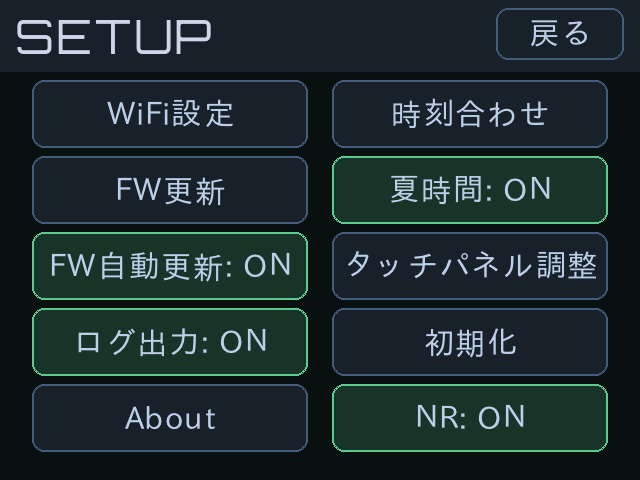
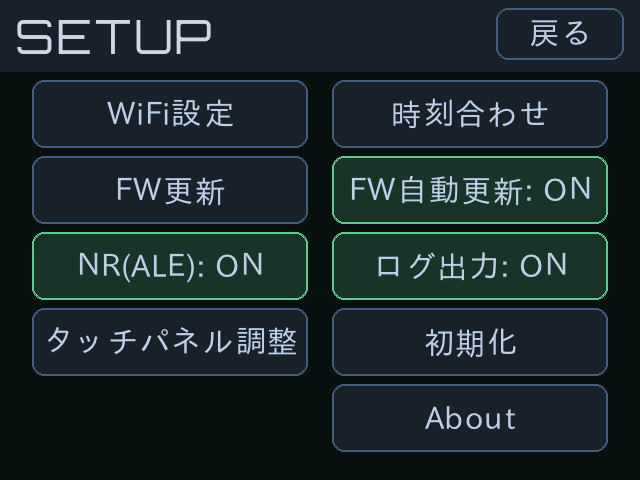
Move summer time and add NTP sync to the time-setting page
SETUP drops the summer-time item, moves About to the bottom right and
groups the rest by topic; NR now reads "NR(ALE)". The time-setting page
gets a summer-time toggle (shifts the values being edited by the change
in offset) and an NTP sync button, greyed out without WiFi; a successful
sync returns to SETUP so pressing OK cannot zero the seconds.
netsync_sync_now() takes a flag to skip repainting the clock screen.

The WiFi screen's QR caption no longer overflows ("QRで接続").
Manual and screenshots updated.

diff --git a/src/timeset.cpp b/src/timeset.cpp
@@ -5,14 +5,19 @@
 //	  ▲     ▲    ▲    ▲    ▲
 //	 2026    08    16    10    55
 //	  ▼     ▼    ▼    ▼    ▼
-//	      [キャンセル]      [決定]
+//	  [夏時間: ON]     [NTP同期]
+//	  [キャンセル]     [決定]
 //
 //	秒は「決定」を押した瞬間に 0 にする。
 //	▲▼ は長押しでリピートする。
+//	夏時間はその場で切り替えて保存し、表示中の値も新しい時差に合わせて動かす。
+//	NTP同期は WiFi を登録したときだけ押せる。成功したら秒まで合っているので
+//	そのまま SETUP へ戻る (「決定」で秒を 0 にしてしまわないように)。
 //
 #include <Arduino.h>
 #include "timeset.h"
 #include "clock.h"
+#include "netsync.h"
 
 #define C_BG      lgfx::color565(14, 17, 22)
 #define C_TITLEBG lgfx::color565(26, 34, 46)
@@ -26,15 +31,23 @@
 #define C_BTN_TX  lgfx::color565(190, 206, 226)
 #define C_OK_BG   lgfx::color565(24, 54, 42)
 #define C_OK_BD   lgfx::color565(90, 200, 140)
+#define C_OFF_BD  lgfx::color565(44, 54, 68)
+#define C_OFF_TX  lgfx::color565(84, 96, 112)
 
-#define LABEL_Y 34
+#define LABEL_Y 35
 #define UP_Y    52
-#define ARROW_H 34
-#define VAL_Y   90
-#define VAL_H   38
-#define DN_Y    130
-#define BTN_Y   186
-#define BTN_H   40
+#define ARROW_H 28
+#define VAL_Y   82
+#define VAL_H   36
+#define DN_Y    120
+#define OPT_Y   156
+#define BTN_Y   198
+#define BTN_H   36
+
+// 下 2 段のボタン (夏時間 / NTP同期、キャンセル / 決定) の列
+#define BTN_L_X 30
+#define BTN_R_X 180
+#define BTN_W   110
 
 #define FIELD_N 5
 
@@ -135,6 +148,20 @@ static void bump(int idx, int dir)
 	}
 }
 
+static void draw_summer(void)
+{
+	const bool on = clock_summer_time() != 0;
+	draw_button(BTN_L_X, OPT_Y, BTN_W, BTN_H, on ? "夏時間: ON" : "夏時間: OFF",
+	            on ? C_OK_BG : C_BTN_BG, on ? C_OK_BD : C_BTN_BD, C_BTN_TX);
+}
+
+static void draw_ntp(void)
+{
+	const bool ok = netsync_has_wifi();
+	draw_button(BTN_R_X, OPT_Y, BTN_W, BTN_H, "NTP同期",
+	            C_BTN_BG, ok ? C_BTN_BD : C_OFF_BD, ok ? C_BTN_TX : C_OFF_TX);
+}
+
 static void draw_screen(void)
 {
 	lcd->fillScreen(C_BG);
@@ -163,8 +190,27 @@ static void draw_screen(void)
 		draw_value(i);
 		draw_arrow(i, false);
 	}
-	draw_button(30, BTN_Y, 110, BTN_H, "キャンセル", C_BTN_BG, C_BTN_BD, C_BTN_TX);
-	draw_button(180, BTN_Y, 110, BTN_H, "決定", C_OK_BG, C_OK_BD, C_BTN_TX);
+	draw_summer();
+	draw_ntp();
+	draw_button(BTN_L_X, BTN_Y, BTN_W, BTN_H, "キャンセル", C_BTN_BG, C_BTN_BD, C_BTN_TX);
+	draw_button(BTN_R_X, BTN_Y, BTN_W, BTN_H, "決定", C_OK_BG, C_OK_BD, C_BTN_TX);
+}
+
+//	夏時間の切替。入力途中の値は捨てず、切替前後のローカル時刻の差だけ動かす
+static void toggle_summer(void)
+{
+	const uint32_t before = clock_zone_now(clock_zone());
+	clock_set_summer_time(!clock_summer_time());
+	const int32_t diff = (int32_t)(clock_zone_now(clock_zone()) - before);
+	if (diff) {
+		uint8_t sec = tm.sec;
+		clock_break(clock_make(&tm) + diff, &tm);
+		tm.sec = sec;
+		for (int i = 0; i < FIELD_N; i++) {
+			draw_value(i);
+		}
+	}
+	draw_summer();
 }
 
 bool timeset_run(LGFX *lcd_)
@@ -190,15 +236,35 @@ bool timeset_run(LGFX *lcd_)
 		}
 
 		// 決定 / キャンセル
-		if (hit(tx, ty, 180, BTN_Y, 110, BTN_H)) {
+		if (hit(tx, ty, BTN_R_X, BTN_Y, BTN_W, BTN_H)) {
 			while (lcd->getTouch(&tx, &ty)) delay(10);
 			tm.sec = 0;
 			clock_set_zone_time(clock_zone(), clock_make(&tm));
 			return true;
 		}
-		if (hit(tx, ty, 30, BTN_Y, 110, BTN_H)) {
+		if (hit(tx, ty, BTN_L_X, BTN_Y, BTN_W, BTN_H)) {
 			while (lcd->getTouch(&tx, &ty)) delay(10);
 			return false;
+		}
+
+		// 夏時間 / NTP同期 (WiFi 未登録なら NTP同期は押しても何もしない)
+		if (hit(tx, ty, BTN_L_X, OPT_Y, BTN_W, BTN_H)) {
+			while (lcd->getTouch(&tx, &ty)) delay(10);
+			toggle_summer();
+			held = -1;
+			continue;
+		}
+		if (hit(tx, ty, BTN_R_X, OPT_Y, BTN_W, BTN_H)) {
+			while (lcd->getTouch(&tx, &ty)) delay(10);
+			held = -1;
+			if (!netsync_has_wifi()) {
+				continue;
+			}
+			if (netsync_sync_now(false)) {
+				return true;
+			}
+			draw_screen();          // 失敗: トーストを消して入力途中の値のまま続ける
+			continue;
 		}
 
 		// ▲▼ (押し始めで1回、長押しでリピート)

diff --git a/src/setup.cpp b/src/setup.cpp
@@ -1,16 +1,17 @@
 //
 //	セットアップ画面
 //
-//	2列 x 5行のグリッド (10項目)。
+//	2列 x 5行のグリッド (9項目、左下は空き)。
 //
 //	┌ SETUP                                [戻る] ┐
 //	│ [ WiFi設定 ]         [ 時刻合わせ ]         │
-//	│ [ FW更新 ]           [ 夏時間: ON ]         │
-//	│ [ FW自動更新: ON ]   [ タッチパネル調整 ]   │
-//	│ [ ログ出力: ON ]     [ 初期化 ]             │
-//	│ [ About ]            [ NR: ON ]             │
+//	│ [ FW更新 ]           [ FW自動更新: ON ]     │
+//	│ [ NR(ALE): ON ]      [ ログ出力: ON ]       │
+//	│ [ タッチパネル調整 ] [ 初期化 ]             │
+//	│                      [ About ]              │
 //	└─────────────────────────────────────────────┘
 //
+//	時刻合わせ → timeset (夏時間の ON/OFF と NTP 同期もここ)
 //	FW更新 → ota (SoftAP+ブラウザで手動アップロード)
 //	タッチパネル調整 → touchcal / About → about_run
 //	NR → トーン検出方式の切替 (ON = ALE によるノイズ低減、dsp.h の DSP_DET_ALE_AMP)
@@ -52,7 +53,7 @@
 #define BACK_W 64
 #define BACK_H 26
 
-// 2列 x 5行のグリッド (10項目)
+// 2列 x 5行のグリッド (10枠。ラベルが NULL の枠は空き)
 #define ITEM_COL_W 138
 #define ITEM_COL_GAP 12
 #define ITEM_H 34
@@ -206,24 +207,26 @@ static void draw_screen(void)
 	draw_button(BACK_X, BACK_Y, BACK_W, BACK_H, "戻る", C_BTN_BG, C_BTN_BD, C_BTN_TX,
 	            &fonts::lgfxJapanGothicP_16);
 
-	char summer[40], scope[40], upd[40], nr[24];
-	snprintf(summer, sizeof(summer), "夏時間: %s", clock_summer_time() ? "ON" : "OFF");
+	char scope[40], upd[40], nr[24];
 	snprintf(scope, sizeof(scope), "ログ出力: %s", scopelog_enabled() ? "ON" : "OFF");
 	snprintf(upd, sizeof(upd), "FW自動更新: %s", fwupdate_check_enabled() ? "ON" : "OFF");
-	snprintf(nr, sizeof(nr), "NR: %s", nr_enabled() ? "ON" : "OFF");
+	snprintf(nr, sizeof(nr), "NR(ALE): %s", nr_enabled() ? "ON" : "OFF");
 	const struct { const char *label; bool on; } items[ITEM_N] = {
 		{ "WiFi設定", false },
 		{ "時刻合わせ", false },
 		{ "FW更新", false },
-		{ summer, clock_summer_time() != 0 },
 		{ upd, fwupdate_check_enabled() },
-		{ "タッチパネル調整", false },
-		{ scope, scopelog_enabled() != 0 },
-		{ "初期化", false },
-		{ "About", false },
 		{ nr, nr_enabled() },
+		{ scope, scopelog_enabled() != 0 },
+		{ "タッチパネル調整", false },
+		{ "初期化", false },
+		{ NULL, false },
+		{ "About", false },
 	};
 	for (int i = 0; i < ITEM_N; i++) {
+		if (!items[i].label) {
+			continue;
+		}
 		int x, y;
 		item_pos(i, &x, &y);
 		draw_button(x, y, ITEM_COL_W, ITEM_H, items[i].label,
@@ -296,17 +299,17 @@ void setup_run(LGFX *lcd_)
 				ap_mode_leave();
 			}
 			break;
-		case 3:
-			clock_set_summer_time(!clock_summer_time());
-			break;
-		case 4:                     // 起動時アップデートチェック ON/OFF
+		case 3:                     // 起動時アップデートチェック ON/OFF
 			fwupdate_set_check_enabled(!fwupdate_check_enabled());
 			break;
+		case 4:                     // NR (ノイズ低減) ON/OFF
+			nr_set(!nr_enabled());
+			break;
 		case 5:
-			touchcal_run(lcd);      // タッチの四隅校正 (DSP は動いたまま)
+			scopelog_set_enabled(!scopelog_enabled());
 			break;
 		case 6:
-			scopelog_set_enabled(!scopelog_enabled());
+			touchcal_run(lcd);      // タッチの四隅校正 (DSP は動いたまま)
 			break;
 		case 7:
 			if (display_confirm(lcd, "設定を初期化します",
@@ -315,12 +318,11 @@ void setup_run(LGFX *lcd_)
 				netsync_clear_wifi();
 			}
 			break;
-		case 8:
+		case 9:
 			about_run();
 			break;
-		default:                    // NR (ノイズ低減) ON/OFF
-			nr_set(!nr_enabled());
-			break;
+		default:                    // 8 は空き
+			continue;
 		}
 		draw_screen();
 	}

diff --git a/src/ota.cpp b/src/ota.cpp
@@ -215,10 +215,10 @@ static void draw_screen(void)
 	// 右: WiFi接続用QR (スマホのカメラで読むとAPに参加できる)
 	String wifi_qr = String("WIFI:T:WPA;S:") + OTA_AP_SSID + ";P:" + OTA_AP_PASS + ";;";
 	lcd->qrcode(wifi_qr.c_str(), 206, 34, 106, 3);
-	lcd->setFont(&fonts::DejaVu12);
+	lcd->setFont(&fonts::lgfxJapanGothicP_16);  // QR の幅 (106px) に収まる短さにする
 	lcd->setTextColor(C_LABEL, C_BG);
 	lcd->setTextDatum(lgfx::textdatum_t::top_center);
-	lcd->drawString("scan: join & open page", 259, 144);
+	lcd->drawString("QRで接続", 259, 144);
 	lcd->setTextDatum(lgfx::textdatum_t::top_left);
 
 	// [キャンセル] は両モード共通 (右下)。OTA モードでは進捗バーをその左に置く

diff --git a/src/netsync.h b/src/netsync.h
@@ -15,7 +15,10 @@
 
 void netsync_init(void);
 void netsync_poll(void);                    // loop から呼ぶ (期限が来たら同期)
-bool netsync_sync_now(void);                // 即時同期 (WiFiを一時的にONにする)
+// 即時同期 (WiFiを一時的にONにする)。経過は画面中央のトーストに出し、
+// 終わったら時計画面を描き直す。時計以外の画面から呼ぶときは
+// redraw_clock = false にして、呼び出し側で自分の画面を描き直す
+bool netsync_sync_now(bool redraw_clock = true);
 
 bool netsync_has_wifi(void);
 void netsync_save_wifi(const char *ssid, const char *pass);

diff --git a/src/netsync.cpp b/src/netsync.cpp
@@ -99,7 +99,7 @@ void netsync_save_wifi(const char *new_ssid, const char *new_pass)
 	Serial.printf("[sync] wifi saved: %s\n", ssid.c_str());
 }
 
-bool netsync_sync_now(void)
+bool netsync_sync_now(bool redraw_clock)
 {
 	if (!netsync_has_wifi()) {
 		clock_toast("WiFi未設定のため同期しません", C_DIM);
@@ -164,7 +164,9 @@ bool netsync_sync_now(void)
 		clock_toast("同期失敗 1時間後に再試行", C_ERR);
 	}
 	delay(1500);            // 結果を読ませてから時計へ戻す
-	clock_redraw();
+	if (redraw_clock) {
+		clock_redraw();
+	}
 	return ok;
 }
 

diff --git a/sim/sim_main.cpp b/sim/sim_main.cpp
@@ -296,7 +296,7 @@ static uint32_t synced_epoch = 0;
 
 void netsync_init(void) { }
 void netsync_poll(void) { }
-bool netsync_sync_now(void) { return false; }
+bool netsync_sync_now(bool redraw_clock) { (void)redraw_clock; return false; }
 bool netsync_has_wifi(void) { return false; }
 void netsync_save_wifi(const char *ssid, const char *pass) { (void)ssid; (void)pass; }
 void netsync_clear_wifi(void) { }

diff --git a/docs/manual.md b/docs/manual.md
@@ -39,16 +39,16 @@ ESP32 ボード (2.8inch CYD 系) で動く CW デコーダの使い方です。
 ## SETUP
 
 デコーダ画面のステータス行にある `SETUP` ボタンを押すと SETUP 画面になります。
-項目は 2 列 5 行に並びます。右上の `戻る` でデコーダ画面に戻ります。
+項目は 2 列に並びます。右上の `戻る` でデコーダ画面に戻ります。
 
 <img src="images/esp32-setup.png" width="320" alt="SETUP 画面">
 
 ```
 WiFi設定          時刻合わせ
-FW更新            夏時間: ON
-FW自動更新: ON    タッチパネル調整
-ログ出力: ON      初期化
-About             NR: ON
+FW更新            FW自動更新: ON
+NR(ALE): ON       ログ出力: ON
+タッチパネル調整  初期化
+                  About
 ```
 
 ### WiFi設定 (最初に行ってください)
@@ -107,11 +107,12 @@ WiFi を登録してあれば **AP と同時に自宅 WiFi にも接続 (AP+STA)
 
 <img src="images/esp32-timeset.png" width="320" alt="時刻合わせ画面">
 
-### 夏時間
+- `夏時間`: 世界時計の夏時間を使うか (ON のとき各国の規則で自動計算)。押すとすぐ切り替わって保存され、
+  表示中の時刻も新しい時差に合わせて動きます
+- `NTP同期`: その場で NTP から時刻を取り込み、成功したら SETUP に戻ります (秒まで合うので `決定` は不要)。
+  WiFi を登録していないときは灰色で押せません
 
-世界時計の夏時間を使うか (ON のとき各国の規則で自動計算)
-
-### NR
+### NR(ALE)
 
 (既定 ON): ノイズ低減。ON で適応型ラインエンハンサ (ALE) を使うトーン検出になり、
 弱い信号の感度が上がり、ノイズの偽文字が減る ([README の信号処理](../README.md#信号処理) 参照)。OFF で従来方式。
@@ -204,12 +205,12 @@ BOOT ボタンでも操作できます (短押し: トーン切替 / 長押し 8
 | `W6` | 米国西部 | UTC−8 | 同上 |
 | `KH6` | ハワイ | UTC−10 | なし |
 
-夏時間は SETUP の `夏時間` が ON のときだけ適用します (設定は NVS に保存)。
+夏時間は [時刻合わせ](#時刻合わせ) の `夏時間` が ON のときだけ適用します (設定は NVS に保存)。
 
 ## 時刻の同期
 
 NTP 時刻同期 (WiFi を登録した場合) は **起動時 (FW自動更新が ON のとき)** と、
-**時計画面を表示している間** に実行されます
+**時計画面を表示している間** に自動で実行されます。[時刻合わせ](#時刻合わせ) の `NTP同期` で手動でも同期できます
 (時計画面では起動 15 秒後以降の初回、以後 24 時間ごと。失敗時は 1 時間後に再試行。
 起動時に同期できた場合は次回を 24 時間後に繰り延べるので二重には走りません)。
 同期中の数秒〜20 秒は無線ノイズを避けるため DSP を一時停止します。
